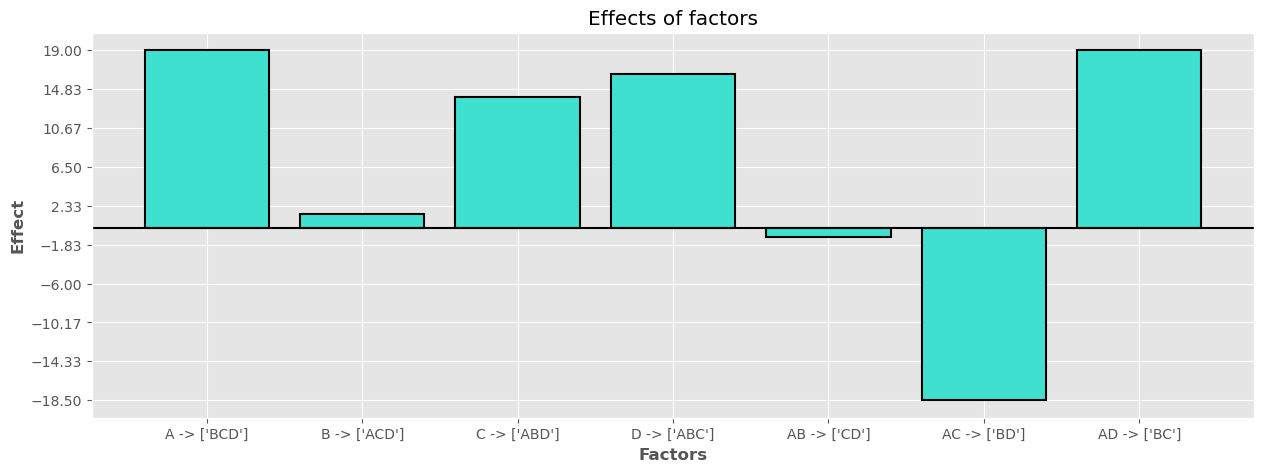
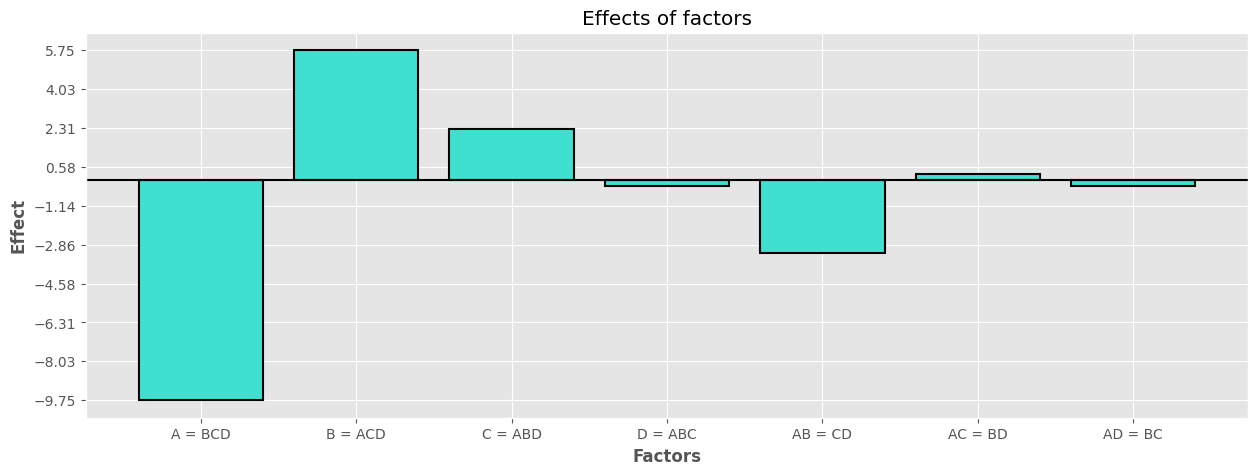
aesthetics improved

diff --git a/source/doemodels/factorial.py b/source/doemodels/factorial.py
@@ -85,9 +85,9 @@ class Factorial2k:
     def effects(self, response: list[float], n: int = 1, graph: bool = False):
         if self.aliases:
             labels = []
-            for key, value in self.aliases_filtered.items():
-                aliases = value
-                labels.append(f"{key} -> {aliases}")
+            for key, aliases in self.aliases_filtered.items():
+                aliases = " = ".join(aliases)
+                labels.append(f"{key} = {aliases}")
             df = self.DataFrame_AntiAliased
             division = df["A"].value_counts().values[1]
             df["Y"] = response

diff --git a/README.md b/README.md
@@ -59,7 +59,7 @@ design.effect(response=[45, 65, 60, 80, 100, 45, 75, 96], n=1, graph=True)
 
 ```python
 # Plot a Pareto chart
-design.pareto()
+design.pareto(graph=True)
 ```
 
 ![pareto](./data/pareto.png)
